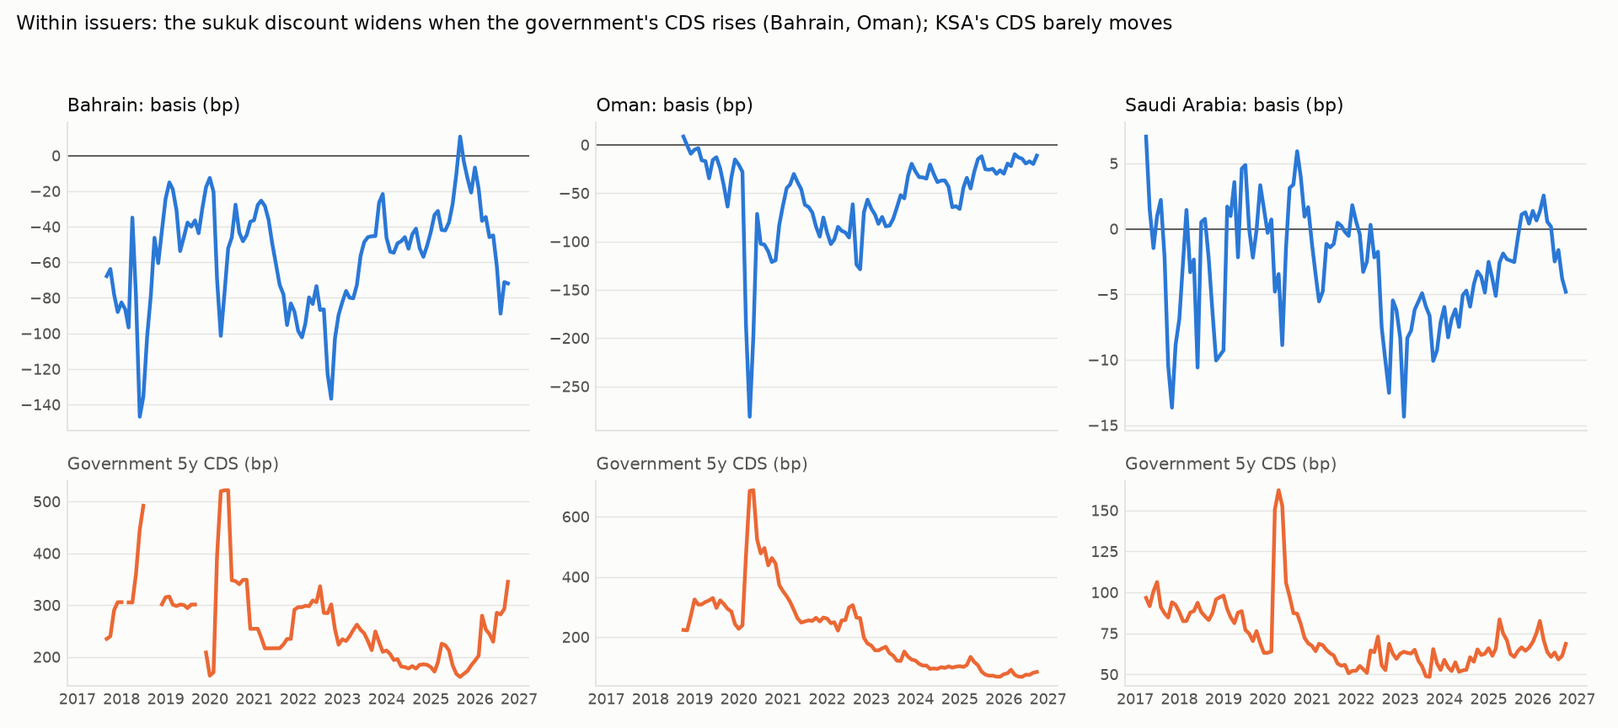
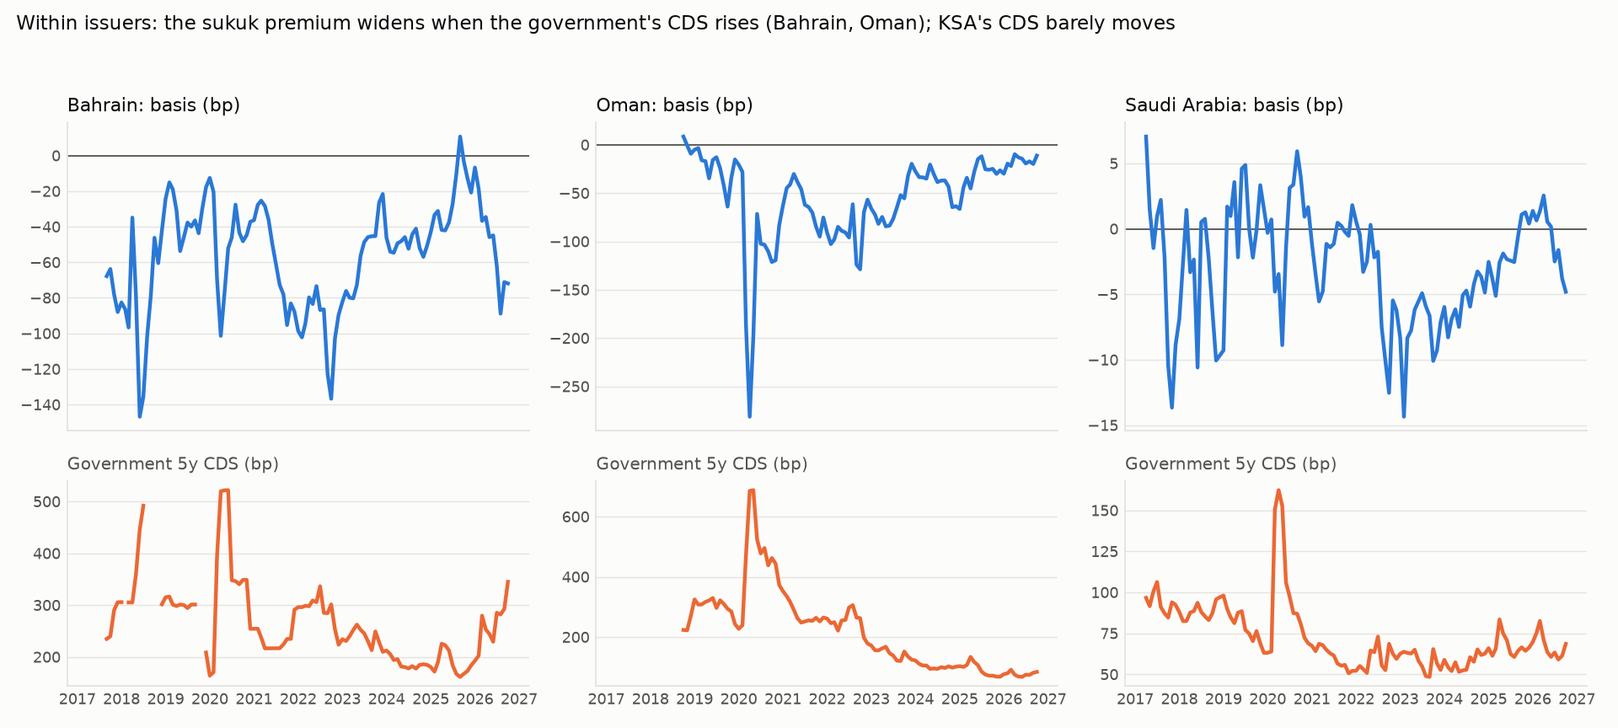
Standardise rich/cheap terminology: sukuk premium, priced through the curve; no numeric changes
A negative basis (sukuk yield below the issuer's conventional curve) means
the sukuk trades rich, so the effect is a sukuk premium, not a discount.
Report prose, headings and chart titles now say "sukuk premium" (wider /
narrower), "lower funding cost" for the issuer, and "priced through the
curve" for a negative sukuk new-issue premium. README gains a short "Sign
and terminology" note after the twin-curve section. src/twin.py's docstring
had the positive-basis case mislabelled as a premium; fixed.

All report stages were re-run offline. Regenerated reports and whitelisted
CSVs differ from the previous commit only in wording (and the generated
date); every number is unchanged. Five charts with changed titles were
regenerated.

Changed region(s): [[0.1562, 0.0, 0.7188, 0.0625]]

diff --git a/run_synthesis.py b/run_synthesis.py
@@ -100,7 +100,7 @@ def main(argv=None) -> int:
          f"{int(level.governments)} obligor groups negative on average (issuers grouped by the government backing "
          "them; Sharjah and the multilateral Arab Energy Fund stand alone).",
          "Holding the issuer fixed, investors accept a lower yield on sukuk."),
-        ("The discount is a sub-investment-grade phenomenon",
+        ("The sukuk premium is a sub-investment-grade phenomenon",
          f"Sub-IG issuers {level.sub_ig_mean_bp:.0f}bp vs investment grade {level.ig_mean_bp:.0f}bp: gap "
          f"{level.gap_bp:.0f}bp, wild bootstrap p = {fmt_p(level.p_wild_government)} by obligor group. With a "
          f"time-varying rule (government CDS above 150bp that month) the gap is {tv_cds.coef_bp:.0f}bp "
@@ -109,25 +109,26 @@ def main(argv=None) -> int:
             f"{tv_rat.iloc[0].coef_bp:.0f}bp (p = {fmt_p(tv_rat.iloc[0].p_wild_government)}; "
             f"{tv_rat.iloc[-1].coef_bp:.0f}bp, p = {fmt_p(tv_rat.iloc[-1].p_wild_government)}, with Dubai excluded)."
             if len(tv_rat) else "; the rating-based version awaits the ratings history.")
-         + f" Oman's discount narrowed by {moodys.change_bp:.0f}bp (90% CI {moodys.ci90}) in the year after "
+         + f" Oman's sukuk premium narrowed by {moodys.change_bp:.0f}bp (90% CI {moodys.ci90}) in the year after "
          "Moody's upgrade made it investment grade at two of three agencies.",
-         "A threshold, not a smooth gradient: investment-grade issuers get single-digit discounts."),
-        ("Within the weakest sovereigns, the discount moves with credit risk",
+         "A threshold, not a smooth gradient: investment-grade issuers get single-digit premiums."),
+        ("Within the weakest sovereigns, the sukuk premium moves with credit risk",
          f"Oman {oman.slope_levels_per_100bp:+.1f}bp and Bahrain {bah.slope_levels_per_100bp:+.1f}bp per 100bp of CDS "
          f"(Newey-West t {oman.t_nw_levels:.1f}, {bah.t_nw_levels:.1f}); also in monthly changes "
          f"({oman.slope_changes_per_100bp:+.1f}, {bah.slope_changes_per_100bp:+.1f}). For investment-grade issuers "
          f"the within slope is {ig_slope.coef_bp:+.1f}bp.",
          f"The pooled panel slope ({panel.slope_per_100bp:+.1f}bp) is not significant on its own once only six CDS "
          f"series are counted (wild bootstrap p = {fmt_p(panel.p_wild_government)}); the case studies carry the claim."),
-        ("The discount exists at issue, not only in secondary quotes",
+        ("The sukuk premium exists at issue, not only in secondary quotes",
          f"Classifying each deal by its government's rating at pricing (MAIN rule: two of three agencies below "
-         f"BBB-/Baa3), weak-credit sukuk priced a median {pm.weak_sukuk_median_bp:+.1f}bp against their issuer's "
-         f"conventional curve (n = {int(pm.weak_sukuk_n)}), vs {pm.weak_conv_median_bp:+.1f}bp for weak-credit "
-         f"conventional deals (n = {int(pm.weak_conv_n)}) and {pm.other_sukuk_median_bp:+.1f}bp for other issuers' "
-         f"sukuk: a sukuk-minus-conventional gap of {pm.weak_sukuk_minus_conv_bp:+.1f}bp (robustness range "
+         f"BBB-/Baa3), weak-credit sukuk priced through their issuer's conventional curve: median new-issue premium "
+         f"{pm.weak_sukuk_median_bp:+.1f}bp (n = {int(pm.weak_sukuk_n)}), vs {pm.weak_conv_median_bp:+.1f}bp for "
+         f"weak-credit conventional deals, which came with the ordinary concession (n = {int(pm.weak_conv_n)}), and "
+         f"{pm.other_sukuk_median_bp:+.1f}bp for other issuers' sukuk: a sukuk-minus-conventional gap of "
+         f"{pm.weak_sukuk_minus_conv_bp:+.1f}bp (robustness range "
          f"{pm_rob.min():+.1f} to {pm_rob.max():+.1f}bp). Issuer-level correlation with the secondary basis "
          f"{corr_ps:.2f}.",
-         "Stale secondary quotes cannot explain a discount that is already there on the pricing date. Under MAIN "
+         "Stale secondary quotes cannot explain a premium that is already there on the pricing date. Under MAIN "
          f"almost all weak-credit sukuk are Bahraini ({int(pm.weak_sukuk_n - pm_exb.weak_sukuk_n)} of "
          f"{int(pm.weak_sukuk_n)}); the lowest-rating and spread rules, which keep more non-Bahraini deals, give the "
          "same sign without Bahrain."),
@@ -160,7 +161,7 @@ def main(argv=None) -> int:
          + f" (trailing-12-month basis x outstanding USD sukuk). Investment-grade sovereigns without USD sukuk "
          f"(Kuwait, Abu Dhabi, UAE federal): predicted USD {cf_rng[0]:.1f}-{cf_rng[1]:.1f}m per USD 1bn issued, intervals "
          "including zero.",
-         "Sukuk issuance pays most for the weakest credits, which is where the discount sits."),
+         "Sukuk issuance pays most for the weakest credits, which is where the premium sits."),
     ]
 
     spec = pd.DataFrame([
@@ -235,13 +236,13 @@ def main(argv=None) -> int:
         L += [f"{i}. **{h}.** {n}", f"   *{interp}*"]
     L += ["\n## Main specifications\n", _md(spec),
           "\n## Charts\n",
-          "**1. The discount across issuers is a threshold** (sub-investment-grade issuers marked as squares; the "
+          "**1. The sukuk premium across issuers is a threshold** (sub-investment-grade issuers marked as squares; the "
           "Dubai government's basis rests on 20-year interpolation brackets and is excluded from the fits):\n",
           "![threshold](mechanism/mechanism_threshold_cross.png)\n",
-          "**2. Within issuers, the discount follows the government's CDS where CDS moves** (Bahrain, Oman), "
+          "**2. Within issuers, the sukuk premium follows the government's CDS where CDS moves** (Bahrain, Oman), "
           "and stays near zero where it does not (KSA):\n",
           "![case studies](credit/credit_case_studies.png)\n",
-          "**3. What the discount is worth by issuer:**\n",
+          "**3. What the sukuk premium is worth by issuer (lower funding cost):**\n",
           "![savings](policy/policy_savings.png)\n",
           "## Where to read more\n",
           "- twin_results.md: the twin-curve method, matching validation and the basis by issuer.",

diff --git a/run_credit.py b/run_credit.py
@@ -48,7 +48,7 @@ def chart_cross_issuer(iss: pd.DataFrame, out: Path) -> None:
                  fontsize=7, color=INK2, wrap=True)
     ax.set_xlabel("Mean sovereign 5y CDS of the issuer's government (bp)", color=INK2, fontsize=9)
     ax.set_ylabel("Mean twin-curve basis (bp)", color=INK2, fontsize=9)
-    ax.set_title("Sukuk discount vs credit risk, one point per issuer (below zero = sukuk yield less)",
+    ax.set_title("Sukuk premium vs credit risk, one point per issuer (below zero = sukuk trade rich to the issuer's curve)",
                  fontsize=10, color=INK, loc="left")
     fig.tight_layout(rect=(0, 0.05, 1, 1))
     fig.savefig(out, dpi=160, facecolor=SURFACE)
@@ -79,7 +79,7 @@ def chart_case_studies(panel: pd.DataFrame, out: Path) -> None:
         bot.plot(t, d["cds"], color=CONV_C, linewidth=2)
         top.set_title(f"{name.split(',')[0]}: basis (bp)", fontsize=10, color=INK, loc="left")
         bot.set_title("Government 5y CDS (bp)", fontsize=9, color=INK2, loc="left")
-    fig.suptitle("Within issuers: the sukuk discount widens when the government's CDS rises (Bahrain, Oman); "
+    fig.suptitle("Within issuers: the sukuk premium widens when the government's CDS rises (Bahrain, Oman); "
                  "KSA's CDS barely moves", fontsize=10.5, color=INK, x=0.01, ha="left")
     fig.tight_layout(rect=(0, 0, 1, 0.95))
     fig.savefig(out, dpi=160, facecolor=SURFACE)
@@ -154,7 +154,7 @@ def main(argv=None) -> int:
                 f"{r.slope_levels_per_100bp:+.1f}bp per 100bp in levels (Newey-West t {r.t_nw_levels:.1f}), "
                 f"{r.slope_changes_per_100bp:+.1f}bp in monthly changes (t {r.t_nw_changes:.1f}).")
 
-    L = ["# Credit stress and the sukuk discount\n",
+    L = ["# Credit stress and the sukuk premium\n",
          f"Generated {date.today():%Y-%m-%d}. Issuer-month panel from the twin-curve basis.\n",
          "## What the evidence supports\n",
          "The claim rests on three pieces, in this order of strength:\n",
@@ -166,7 +166,7 @@ def main(argv=None) -> int:
          f"sovereign, which was sub-IG for most of the sample) average {sub_mean:.0f}bp against {ig_mean:.0f}bp for "
          f"investment-grade issuers: a gap of {gap['coef']:.0f}bp, wild cluster bootstrap p = {fmt_p(gap['p_wild'])} "
          f"clustering by obligor group ({gap['clusters']} clusters).",
-         "2. **Case studies within issuers.** The two governments whose CDS moved most show the discount "
+         "2. **Case studies within issuers.** The two governments whose CDS moved most show the sukuk premium "
          "widening as credit risk rises, in levels and in monthly changes:",
          case_line("Oman, Sultanate of (Government)"), case_line("Bahrain, Kingdom of (Government)"),
          case_line("BAPCO Energies BSCC Closed"),
@@ -196,7 +196,7 @@ def main(argv=None) -> int:
          f"common monthly shocks), plus restricted wild cluster bootstrap p-values (Webb weights, {a.draws:,} "
          "draws) by government and by issuer. Issuers without a sovereign CDS form their own government "
          "cluster.\n",
-         "## Across issuers: is the discount bigger for weaker credits?\n",
+         "## Across issuers: is the sukuk premium bigger for weaker credits?\n",
          "![cross issuer](credit_cross_issuer.png)\n",
          _md(xs),
          "\n## Panel regressions within issuers\n",
@@ -214,11 +214,11 @@ def main(argv=None) -> int:
          "That is why the case studies, not the panel t-stat, carry the within-issuer claim.",
          "- **Across issuers:** the cross-sectional slope depends on Bahrain (sovereign and BAPCO). Without it "
          "there is no gradient among issuers with CDS below about 100bp. Describe the cross-section as a "
-         "threshold (large discounts for the sub-investment-grade sovereigns, small elsewhere), not a "
+         "threshold (large premiums for the sub-investment-grade sovereigns, small elsewhere), not a "
          "smooth gradient.",
          "- **Liquidity:** the liquidity-gap coefficient is *negative*: months when sukuk are relatively less "
          "liquid are months when they yield relatively *less*. A liquidity premium would show the opposite "
-         "sign, so liquidity does not explain the discount.\n",
+         "sign, so liquidity does not explain the premium.\n",
          "\n## Issuer means\n",
          _md(iss[["parent_name", "cds_sovereign", "months", "basis", "cds", "spread_conv", "ba_sukuk",
                   "ba_conv", "liq_gap"]]),

diff --git a/run_policy.py b/run_policy.py
@@ -68,7 +68,7 @@ def chart_savings(s: pd.DataFrame, out: Path) -> None:
                     va="center", fontsize=7.5, color=INK2)
     ax.set_xlabel("Annual coupon saving from issuing sukuk, USD m (trailing 12-month basis x outstanding sukuk)",
                   color=INK2, fontsize=8.5)
-    ax.set_title("Sukuk cost advantage by issuer, with 90% intervals", fontsize=10, color=INK, loc="left")
+    ax.set_title("Lower funding cost from issuing sukuk, by issuer, with 90% intervals", fontsize=10, color=INK, loc="left")
     fig.tight_layout()
     fig.savefig(out, dpi=160, facecolor=SURFACE)
     plt.close(fig)
@@ -128,7 +128,7 @@ def main(argv=None) -> int:
 
     tot12 = sav["saving_12m_usd_m"].sum(skipna=True)
     totf = sav["saving_full_usd_m"].sum(skipna=True)
-    L = ["# Policy numbers: what is the sukuk discount worth?\n",
+    L = ["# Policy numbers: what is the sukuk premium worth?\n",
          f"Generated {date.today():%Y-%m-%d}. As of {asof:%Y-%m-%d}.\n",
          "## a. Annual coupon saving by issuer\n",
          "Saving (USD m a year) = USD sukuk outstanding (maturity after the as-of date; perpetuals excluded) x "
@@ -148,13 +148,13 @@ def main(argv=None) -> int:
          "Prediction intervals (90%) include the cross-issuer residual spread, which is large.\n\n",
          _md(targets.assign(cds=targets["cds"].round(1))), "\n", _md(cf),
          "\n**Reading:** these sovereigns are investment grade with low CDS, the region where the fitted models "
-         "predict a small discount (the investment-grade issuers in the sample, such as KSA and Qatar, average "
+         "predict a small premium (the investment-grade issuers in the sample, such as KSA and Qatar, average "
          "single digits). The intervals are wide and include zero, so expect a saving of a few bp at most.\n",
          "## Caveats\n",
          "- The saving applies today's basis to bonds issued years ago. It measures the current relative cost, "
          "not the saving each bond achieved at issue (see the primary-market check in data_quality_results.md).",
          "- Secondary-market sukuk quotes are staler than conventional ones (data_quality_results.md), so part "
-         "of the measured discount may be quote smoothing.",
+         "of the measured premium may be quote smoothing.",
          "- Outstanding amounts are USD only, from the security universe.\n"]
     (out / "policy_results.md").write_text("\n".join(L), encoding="utf-8")
     log.info("Savings:\n%s", sav.to_string(index=False))

diff --git a/run_data_quality.py b/run_data_quality.py
@@ -40,7 +40,8 @@ def reading(summ: pd.DataFrame) -> list[str]:
     out = [f"- **Does it hold under all three rules?** {'Yes' if holds else 'Not under every rule'}: weak-credit "
            f"sukuk minus weak-credit conventional (medians) is {', '.join(f'{r} {g:+.1f}bp' for r, g in zip(core, gaps))}, "
            f"a range of {min(gaps):+.1f} to {max(gaps):+.1f}bp.",
-           f"- **MAIN:** weak-credit sukuk median {m.weak_sukuk_median_bp:+.1f}bp (n = {int(m.weak_sukuk_n)}) against "
+           f"- **MAIN:** weak-credit sukuk priced through the curve, median new-issue premium "
+           f"{m.weak_sukuk_median_bp:+.1f}bp (n = {int(m.weak_sukuk_n)}), against "
            f"{m.weak_conv_median_bp:+.1f}bp for weak-credit conventional bonds (n = {int(m.weak_conv_n)}) and "
            f"{m.other_sukuk_median_bp:+.1f}bp for other issuers' sukuk (Welch t {m.welch_t_weak_vs_other_sukuk:.1f}).",
            f"- **Dependence on Bahrain:** without Bahrain and BAPCO, MAIN leaves {int(mx.weak_sukuk_n)} weak-credit "
@@ -53,7 +54,7 @@ def reading(summ: pd.DataFrame) -> list[str]:
                        + (f", Welch t {exb.loc[r, 'welch_t_weak_vs_other_sukuk']:.1f})"
                           if pd.notna(exb.loc[r, 'welch_t_weak_vs_other_sukuk']) else ")")
                        for r in ("Robustness A", "Robustness B") if r in exb.index)
-           + ". The discount is smaller without Bahrain but keeps its sign."]
+           + ". The premium is smaller without Bahrain but keeps its sign."]
     return out
 
 
@@ -185,7 +186,7 @@ def main(argv=None) -> int:
          "the new bond's maturity with the same rules as twin.py (interpolation, or the US Treasury-adjusted "
          "nearest bond within 1 year). New conventional bonds are compared with the issuer's *other* "
          "conventional bonds the same way. *Sukuk minus conventional* nets out the ordinary new-issue concession, "
-         "leaving the primary-market sukuk discount.\n\n",
+         "leaving the primary-market sukuk premium: a negative value means the sukuk priced through the curve.\n\n",
          f"Matching status of new issues: {match_status}.\n\n",
          f"**Off-market deals excluded** (|premium| > {OFF_MARKET_BP:.0f}bp; e.g. 1% coupon official placements "
          "that are not market transactions):\n\n", _md(off) if len(off) else "_none_\n",

diff --git a/run_drivers.py b/run_drivers.py
@@ -1,4 +1,4 @@
-"""Drivers of the sukuk discount: interbank funding, sukuk supply, and a PCA factor view.
+"""Drivers of the sukuk premium: interbank funding, sukuk supply, and a PCA factor view.
 
 Usage:
     .venv\\Scripts\\python run_drivers.py --session platform   # refresh interbank fixings, then analyse
@@ -62,7 +62,7 @@ def chart_pc1(res: dict, drivers: pd.DataFrame, out: Path, title: str) -> None:
     ax.axhline(0, color=INK2, linewidth=0.8)
     ax.plot(t, s.values, color=SUKUK_C, linewidth=2)
     ax.set_title(f"{title}: first common factor of the twin-curve basis "
-                 f"({res['share']['PC1']:.0%} of variance); higher = discount narrower", fontsize=10,
+                 f"({res['share']['PC1']:.0%} of variance); higher = premium narrower", fontsize=10,
                  color=INK, loc="left")
     ax2 = axes[1]
     _style(ax2)
@@ -129,7 +129,7 @@ def main(argv=None) -> int:
 
     ib_tbl = ib.assign(year=ib["month"].dt.year).groupby(["year", "country"])["ib_spread"].mean().unstack().round(0)
     iss_tbl = issuance.assign(year=issuance["month"].dt.year).groupby(["year", "country"])["sukuk_usd_bn"].sum().unstack().round(1)
-    L = ["# Drivers of the sukuk discount: funding, supply and a common factor\n",
+    L = ["# Drivers of the sukuk premium: funding, supply and a common factor\n",
          f"Generated {date.today():%Y-%m-%d}.\n",
          "## New variables\n",
          "- **Interbank spread (bp):** local 3-month fixing minus the 3-month US Treasury bill (SAIBOR "
@@ -167,7 +167,7 @@ def main(argv=None) -> int:
                                 "PC1_levels": res["loadings"]["PC1"].round(2).values,
                                 "PC1_changes": dres["loadings"]["PC1"].reindex(res["loadings"].index).round(2).values})),
               "\nWhat moves PC1? Coefficients are per one standard deviation of each driver (Newey-West t, 3 lags). "
-              "A positive coefficient means the driver narrows the discount (moves the basis toward zero).\n\n"
+              "A positive coefficient means the driver narrows the sukuk premium (moves the basis toward zero).\n\n"
               "**Levels:**\n\n", _md(lv), "\n**Monthly changes:**\n\n", _md(ch)]
     L += ["\n![PC1](drivers_pc1.png)\n",
           "\n## Caveats\n",

diff --git a/run_mechanism.py b/run_mechanism.py
@@ -68,7 +68,7 @@ def chart_threshold(xs: pd.DataFrame, prof: pd.DataFrame, out: Path) -> None:
                     fontsize=8, color=INK2)
     ax.set_xlabel("Mean sovereign 5y CDS of the issuer's government (bp)", color=INK2, fontsize=9)
     ax.set_ylabel("Mean twin-curve basis (bp)", color=INK2, fontsize=9)
-    ax.set_title("Sukuk discount vs credit risk across issuers: a threshold, not a line", fontsize=10,
+    ax.set_title("Sukuk premium vs credit risk across issuers: a threshold, not a line", fontsize=10,
                  color=INK, loc="left")
     ax.legend(frameon=False, fontsize=8, labelcolor=INK2, loc="lower left")
     fig.tight_layout()
@@ -198,11 +198,11 @@ def main(argv=None) -> int:
          _md(mech),
          "\nHow to read the predictions:",
          "- **Recovery / asset backing:** an Ijara sukuk is backed by a tangible asset, so if investors price "
-         "recovery value the discount should *steepen* with CDS for Ijara (CDS x Ijara < 0).",
+         "recovery value the premium should *steepen* with CDS for Ijara (CDS x Ijara < 0).",
          "- **Default / recovery over time:** expected loss accumulates with maturity, so the CDS slope should "
          "grow with tenor (CDS x maturity < 0).",
          "- **Captive demand:** if local Islamic banks are the marginal buyer, tight local funding (a wider "
-         "interbank spread) should *weaken* the discount (CDS x interbank > 0). The negative liquidity-gap "
+         "interbank spread) should *weaken* the premium (CDS x interbank > 0). The negative liquidity-gap "
          "coefficient fits the same story: sukuk that trade less are held to maturity by these banks and price "
          "richer, which is the opposite of a liquidity premium.\n",
          "## 2. Threshold shape\n",

diff --git a/src/twin_report.py b/src/twin_report.py
@@ -160,7 +160,9 @@ def write_report(panel: pd.DataFrame, b: pd.DataFrame, gaps: pd.DataFrame, out_d
          f"within {cfg['nearest_max_gap']:g} year is used, shifted along that day's US Treasury curve to the "
          "sukuk's maturity: y_near + UST(sukuk maturity) - UST(nearest maturity). Share per issuer: "
          "`share_nearest_adj`. **Basis = sukuk yield minus matched conventional yield, in bp.** "
-         "Negative means the sukuk yields less than the issuer's own conventional curve.",
+         "Negative means the sukuk yields less than the issuer's own conventional curve, i.e. it trades rich to "
+         "that curve: a **sukuk premium** (a price premium, equivalently a yield gap). A more negative basis is a "
+         "larger premium.",
          "- **Excluded:** " + (", ".join(cfg.get("exclude_parents", [])) or "none") + " (amortizing aircraft "
          "sukuk: yield to final maturity is not comparable).",
          f"- **Inference:** per issuer, the daily average basis is a time series; its mean has a Newey-West "

diff --git a/src/mechanism.py b/src/mechanism.py
@@ -1,4 +1,4 @@
-"""Why do weak credits get a bigger sukuk discount? Mechanism, threshold and inference.
+"""Why do weak credits get a bigger sukuk premium? Mechanism, threshold and inference.
 
 1. Mechanism
    a. Structure: basis by sukuk structure, within issuers that use several;
@@ -7,7 +7,7 @@
    b. Tenor: CDS x remaining maturity at bond-month level. A default/recovery
       story predicts a slope that grows with maturity.
    c. Captive demand: CDS x local interbank spread. If Islamic banks are the
-      marginal buyer, tight local liquidity should weaken the discount.
+      marginal buyer, tight local liquidity should weaken the premium.
 2. Threshold: investment-grade vs sub-IG dummy (snapshot ratings) and a
    piecewise-linear CDS spline with the kink chosen on a grid, within and
    across issuers.

diff --git a/src/credit.py b/src/credit.py
@@ -1,4 +1,4 @@
-"""Does the sukuk discount widen with credit stress? (issuer-month panel)
+"""Does the sukuk premium widen with credit stress? (issuer-month panel)
 
 Dependent variable: the twin-curve basis (sukuk yield minus same-maturity
 conventional yield, bp), averaged by issuer and month.
@@ -14,7 +14,7 @@ Credit measures:
 Liquidity control:
   liq_gap     sukuk minus conventional median bid-ask (bp of yield) for the
               issuer-month. Wider sukuk bid-asks would also make sukuk yields
-              look different, so the discount could be a liquidity effect.
+              look different, so the premium could be a liquidity effect.
 
 Inference: issuer-clustered standard errors and Driscoll-Kraay (robust to
 cross-issuer correlation in the same month). Clusters are few (about 16), so

diff --git a/src/twin.py b/src/twin.py
@@ -16,7 +16,7 @@ B. Standard-tenor gap (robustness). Both curves are interpolated at 3/5/7/10y
    when each brackets that tenor; gap = y_sukuk_curve - y_conv_curve.
 
 Negative basis = sukuk yield below the issuer's own conventional curve
-(sukuk trade rich); positive = sukuk premium.
+(sukuk trade rich: a sukuk premium); positive = sukuk trade cheap to the curve.
 """
 from __future__ import annotations
 

diff --git a/src/drivers.py b/src/drivers.py
@@ -5,7 +5,7 @@
   that hold most sukuk).
 - Sukuk issuance: USD sukuk and conventional bond issuance by country of risk,
   from the security universe. Tests a supply / scarcity explanation: more
-  sukuk supply should shrink the discount.
+  sukuk supply should shrink the premium.
 - PCA on the issuer-by-month basis panel: is there a common GCC-wide factor,
   and what moves it?
 """

diff --git a/data/USD/analysis/synthesis.md b/data/USD/analysis/synthesis.md
@@ -6,12 +6,12 @@ Generated 2026-11-01. Every number below is read from a stage report's CSV outpu
 
 1. **Sukuk trade below their own issuer's conventional curve.** -18.6bp average across 18 issuers (median -8.7bp); 16 of 18 negative; 8 of 8 obligor groups negative on average (issuers grouped by the government backing them; Sharjah and the multilateral Arab Energy Fund stand alone).
    *Holding the issuer fixed, investors accept a lower yield on sukuk.*
-2. **The discount is a sub-investment-grade phenomenon.** Sub-IG issuers -50bp vs investment grade -5bp: gap -45bp, wild bootstrap p = 0.015 by obligor group. With a time-varying rule (government CDS above 150bp that month) the gap is -55bp (p = 0.077 by obligor group, 0.022 by issuer); with time-varying ratings (2 of 3 agencies below BBB-/Baa3, Dubai via its DEWA proxy) -58bp (p = 0.038; -56bp, p = 0.074, with Dubai excluded). Oman's discount narrowed by 21bp (90% CI [10.3, 32.4]) in the year after Moody's upgrade made it investment grade at two of three agencies.
-   *A threshold, not a smooth gradient: investment-grade issuers get single-digit discounts.*
-3. **Within the weakest sovereigns, the discount moves with credit risk.** Oman -21.5bp and Bahrain -19.2bp per 100bp of CDS (Newey-West t -4.0, -3.0); also in monthly changes (-50.0, -21.2). For investment-grade issuers the within slope is +3.4bp.
+2. **The sukuk premium is a sub-investment-grade phenomenon.** Sub-IG issuers -50bp vs investment grade -5bp: gap -45bp, wild bootstrap p = 0.015 by obligor group. With a time-varying rule (government CDS above 150bp that month) the gap is -55bp (p = 0.077 by obligor group, 0.022 by issuer); with time-varying ratings (2 of 3 agencies below BBB-/Baa3, Dubai via its DEWA proxy) -58bp (p = 0.038; -56bp, p = 0.074, with Dubai excluded). Oman's sukuk premium narrowed by 21bp (90% CI [10.3, 32.4]) in the year after Moody's upgrade made it investment grade at two of three agencies.
+   *A threshold, not a smooth gradient: investment-grade issuers get single-digit premiums.*
+3. **Within the weakest sovereigns, the sukuk premium moves with credit risk.** Oman -21.5bp and Bahrain -19.2bp per 100bp of CDS (Newey-West t -4.0, -3.0); also in monthly changes (-50.0, -21.2). For investment-grade issuers the within slope is +3.4bp.
    *The pooled panel slope (-22.0bp) is not significant on its own once only six CDS series are counted (wild bootstrap p = 0.287); the case studies carry the claim.*
-4. **The discount exists at issue, not only in secondary quotes.** Classifying each deal by its government's rating at pricing (MAIN rule: two of three agencies below BBB-/Baa3), weak-credit sukuk priced a median -55.2bp against their issuer's conventional curve (n = 15), vs +18.6bp for weak-credit conventional deals (n = 23) and -3.0bp for other issuers' sukuk: a sukuk-minus-conventional gap of -73.9bp (robustness range -65.8 to -42.1bp). Issuer-level correlation with the secondary basis 0.78.
-   *Stale secondary quotes cannot explain a discount that is already there on the pricing date. Under MAIN almost all weak-credit sukuk are Bahraini (14 of 15); the lowest-rating and spread rules, which keep more non-Bahraini deals, give the same sign without Bahrain.*
+4. **The sukuk premium exists at issue, not only in secondary quotes.** Classifying each deal by its government's rating at pricing (MAIN rule: two of three agencies below BBB-/Baa3), weak-credit sukuk priced through their issuer's conventional curve: median new-issue premium -55.2bp (n = 15), vs +18.6bp for weak-credit conventional deals, which came with the ordinary concession (n = 23), and -3.0bp for other issuers' sukuk: a sukuk-minus-conventional gap of -73.9bp (robustness range -65.8 to -42.1bp). Issuer-level correlation with the secondary basis 0.78.
+   *Stale secondary quotes cannot explain a premium that is already there on the pricing date. Under MAIN almost all weak-credit sukuk are Bahraini (14 of 15); the lowest-rating and spread rules, which keep more non-Bahraini deals, give the same sign without Bahrain.*
 5. **Sukuk quotes are somewhat stale, but that is not the story.** Unchanged mid price on 7.9% of days for sukuk vs 1.5% for conventionals; sukuk absorb 0.47 of a conventional move on the day and 0.62 within a week (weak credits 0.56, KSA 0.89); 46% of the pooled same-month CDS effect reverses within six months (Bahrain: no reversal).
    *Even after 120 business days sukuk move 0.83bp per conventional bp: damping is real, and stale quotes explain only part of the monthly CDS response.*
 6. **Mechanism: tenor and buy-and-hold demand, with modest evidence.** Holm-adjusted p-values across the four mechanism tests (government-clustered wild bootstrap): CDS slope steepens by -2.1bp per 100bp per year of maturity (p 0.138); less liquid sukuk price richer, -0.81bp per bp of bid-ask gap (p 0.076); CDS x interbank spread -0.10 per bp (p 0.626); CDS x Ijara +10.9 (p 0.718), a low-power test because only 10 of the 68 twin sukuk are Ijara (43 are Hybrid).
@@ -19,7 +19,7 @@ Generated 2026-11-01. Every number below is read from a stage report's CSV outpu
 7. **Oil shocks do not move the basis directly.** Median basis response to an oil-price rise +0.6bp at +5 days; the test could detect 3.1bp (+5) or 4.9bp (+20) with 80% power. Implied via credit: +0.71bp (90% CI [-0.82, 2.77]).
    *Oil reaches the basis only through credit risk, and oil up-shocks in this sample raise GCC CDS (median +5.9bp at +5 days, placebo p < 0.001); several of them are regional conflicts.*
 8. **What it is worth.** Bahrain about USD 45m a year; Sharjah about USD 27m a year; BAPCO Energies BSCC Closed about USD 11m a year (trailing-12-month basis x outstanding USD sukuk). Investment-grade sovereigns without USD sukuk (Kuwait, Abu Dhabi, UAE federal): predicted USD 0.3-1.3m per USD 1bn issued, intervals including zero.
-   *Sukuk issuance pays most for the weakest credits, which is where the discount sits.*
+   *Sukuk issuance pays most for the weakest credits, which is where the premium sits.*
 
 ## Main specifications
 
@@ -49,15 +49,15 @@ Generated 2026-11-01. Every number below is read from a stage report's CSV outpu
 
 ## Charts
 
-**1. The discount across issuers is a threshold** (sub-investment-grade issuers marked as squares; the Dubai government's basis rests on 20-year interpolation brackets and is excluded from the fits):
+**1. The sukuk premium across issuers is a threshold** (sub-investment-grade issuers marked as squares; the Dubai government's basis rests on 20-year interpolation brackets and is excluded from the fits):
 
 ![threshold](mechanism/mechanism_threshold_cross.png)
 
-**2. Within issuers, the discount follows the government's CDS where CDS moves** (Bahrain, Oman), and stays near zero where it does not (KSA):
+**2. Within issuers, the sukuk premium follows the government's CDS where CDS moves** (Bahrain, Oman), and stays near zero where it does not (KSA):
 
 ![case studies](credit/credit_case_studies.png)
 
-**3. What the discount is worth by issuer:**
+**3. What the sukuk premium is worth by issuer (lower funding cost):**
 
 ![savings](policy/policy_savings.png)
 
